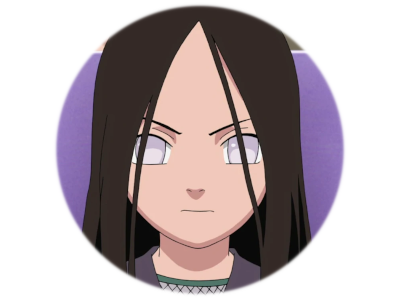
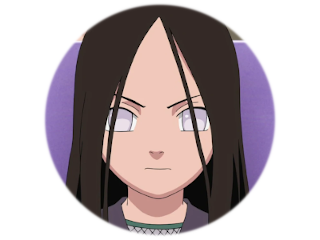
redimensionando

diff --git a/style.css b/style.css
@@ -1,7 +1,7 @@
 @charset "UTF-8";
 
 :root {
-    --font-base: 500 1.5em Arial, Helevetica, sans-serif;
+    --font-base: 500 1.3em Arial, Helevetica, sans-serif;
 }
 
 * {
@@ -14,28 +14,31 @@ body {
     padding: 16px;
 }
 
-main {
-    background-color: white;
-    max-width: 620px;
-    margin: auto;
-    border-radius: 10px;
-    padding: 16px;
-    margin-top: 16px;
-    margin-bottom: 16px;
-    box-shadow: 6px 4px 10px rgba(0, 0, 0, 0.22);
-}
-
 header {
     margin: auto;
     padding: 8px;
 }
 
 header h1 {
-    font: normal bolder 3em Arial, Helvetica, sans-serif;
+    font: normal bolder 2em Arial, Helvetica, sans-serif;
     text-align: center;
     color: white;
-    margin: 16px;
+    margin: 8px;
 }
+
+
+main {
+    background-color: white;
+    max-width: 600px;
+    margin: auto;
+    border-radius: 10px;
+    padding: 16px;
+    padding-top: 24px;
+    margin-top: 16px;
+    margin-bottom: 16px;
+    box-shadow: 6px 4px 10px rgba(0, 0, 0, 0.22);
+}
+
 
 section#insercao {
 
@@ -50,7 +53,7 @@ section#resultado h2 {
     font: var(--font-base);
     text-align: center;
     
-    margin-top: 24px;
+    margin-top: 8px;
 }
 
 section > picture > img {
@@ -71,7 +74,5 @@ footer > p {
     font: italic bold 1em Arial, Helvetica, sans-serif;
     color: white;
     text-align: center;
-    margin-top: 16px;
-    padding: 8px;
     
 }
